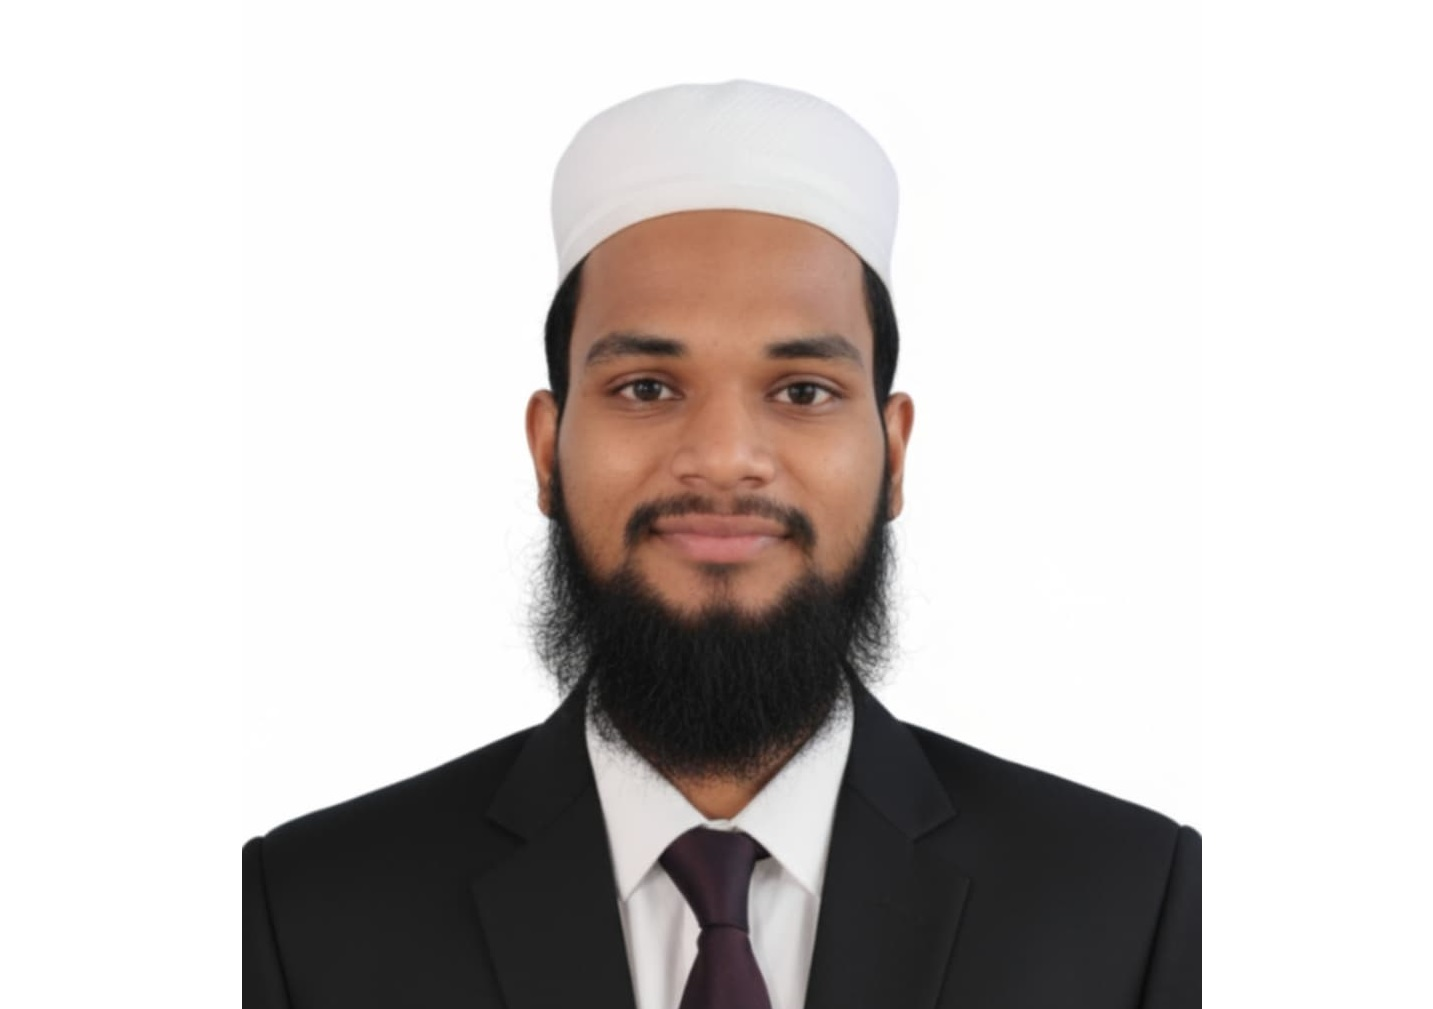
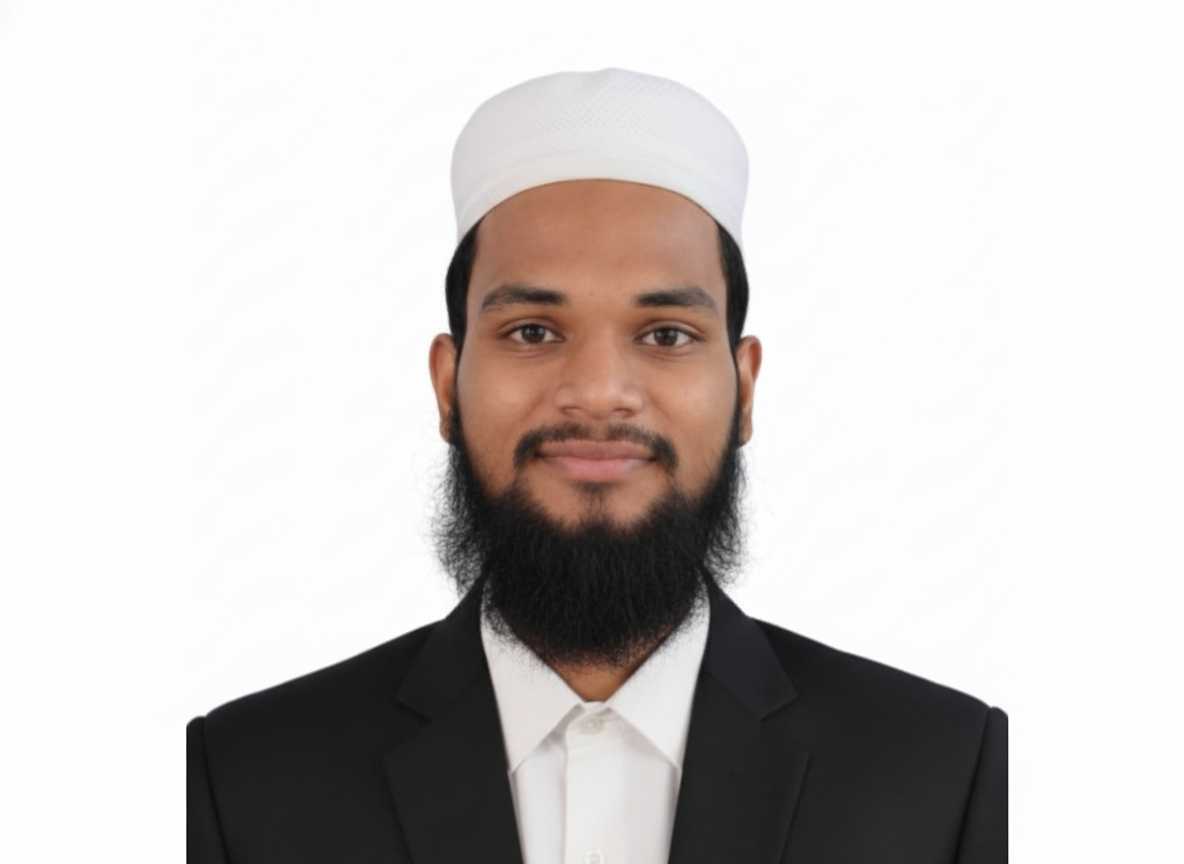
Yashash, Kavya, Pavan CC & Sai Lakshmi Pics Added

diff --git a/src/data/members.js b/src/data/members.js
@@ -33,11 +33,11 @@ export const members = [
     { "name": "P. Rahul", "designation": "Joint Secretary", "year": 2, "department": "CSE", "regdNo": "24L31A05V4", "image": "/Rahul Joint Secretary.jpg" },
     { "name": "D. P. V. Puskar", "designation": "Joint Secretary", "year": 2, "department": "IT", "regdNo": "24L31A1237", "image": "/Puskar.jpg" },
     { "name": "T. Vivek", "designation": "Joint Secretary", "year": 2, "department": "ECM", "regdNo": "24L31A1959", "image": "/Vivek.jpg" },
-    { "name": "N. Jhansi Sri Kavya", "designation": "Joint Secretary", "year": 2, "department": "ACSE", "regdNo": "24L31A43B5", "image": "/Jhansi.jpg" },
+    { "name": "N. Jhansi Sri Kavya", "designation": "Joint Secretary", "year": 2, "department": "ACSE", "regdNo": "24L31A43B5", "image": "/Sri Kavya.jpg" },
     { "name": "Ch. Harshith Varma", "designation": "Joint Secretary", "year": 2, "department": "AI&DS", "regdNo": "24L31A5429", "image": "/Harshith.jpg" },
     { "name": "D. Hemanth", "designation": "Club Coordinator", "year": 2, "department": "CE", "regdNo": "24L31A0114", "image": "/Hemanth.jpg" },
     { "name": "V. Bharat", "designation": "Club Coordinator", "year": 2, "department": "CE", "regdNo": "24L31A0192", "image": "/Bharat.jpg" },
-    { "name": "K. Jyothi Pavan", "designation": "Club Coordinator", "year": 2, "department": "EEE", "regdNo": "24L31A0269", "image": "/Jyothi Pavan.jpg" },
+    { "name": "K. Jyothi Pavan", "designation": "Club Coordinator", "year": 2, "department": "EEE", "regdNo": "24L31A0269", "image": "/Pavan Club Coordinator.jpg" },
     { "name": "D. Niraj Kumar", "designation": "Club Coordinator", "year": 2, "department": "EEE", "regdNo": "25L35A0203", "image": "/Niraj Kumar Club Coordinator.png" },
     { "name": "K. Vikas", "designation": "Club Coordinator", "year": 2, "department": "ME", "regdNo": "24L31A0376", "image": "/Vikas Club Coordinator.jpg" },
     { "name": "N. Lakshmi Tejasri", "designation": "Club Coordinator", "year": 2, "department": "ME", "regdNo": "24L31A03B1", "image": "/Lakshmi Tejasri.jpg" },
